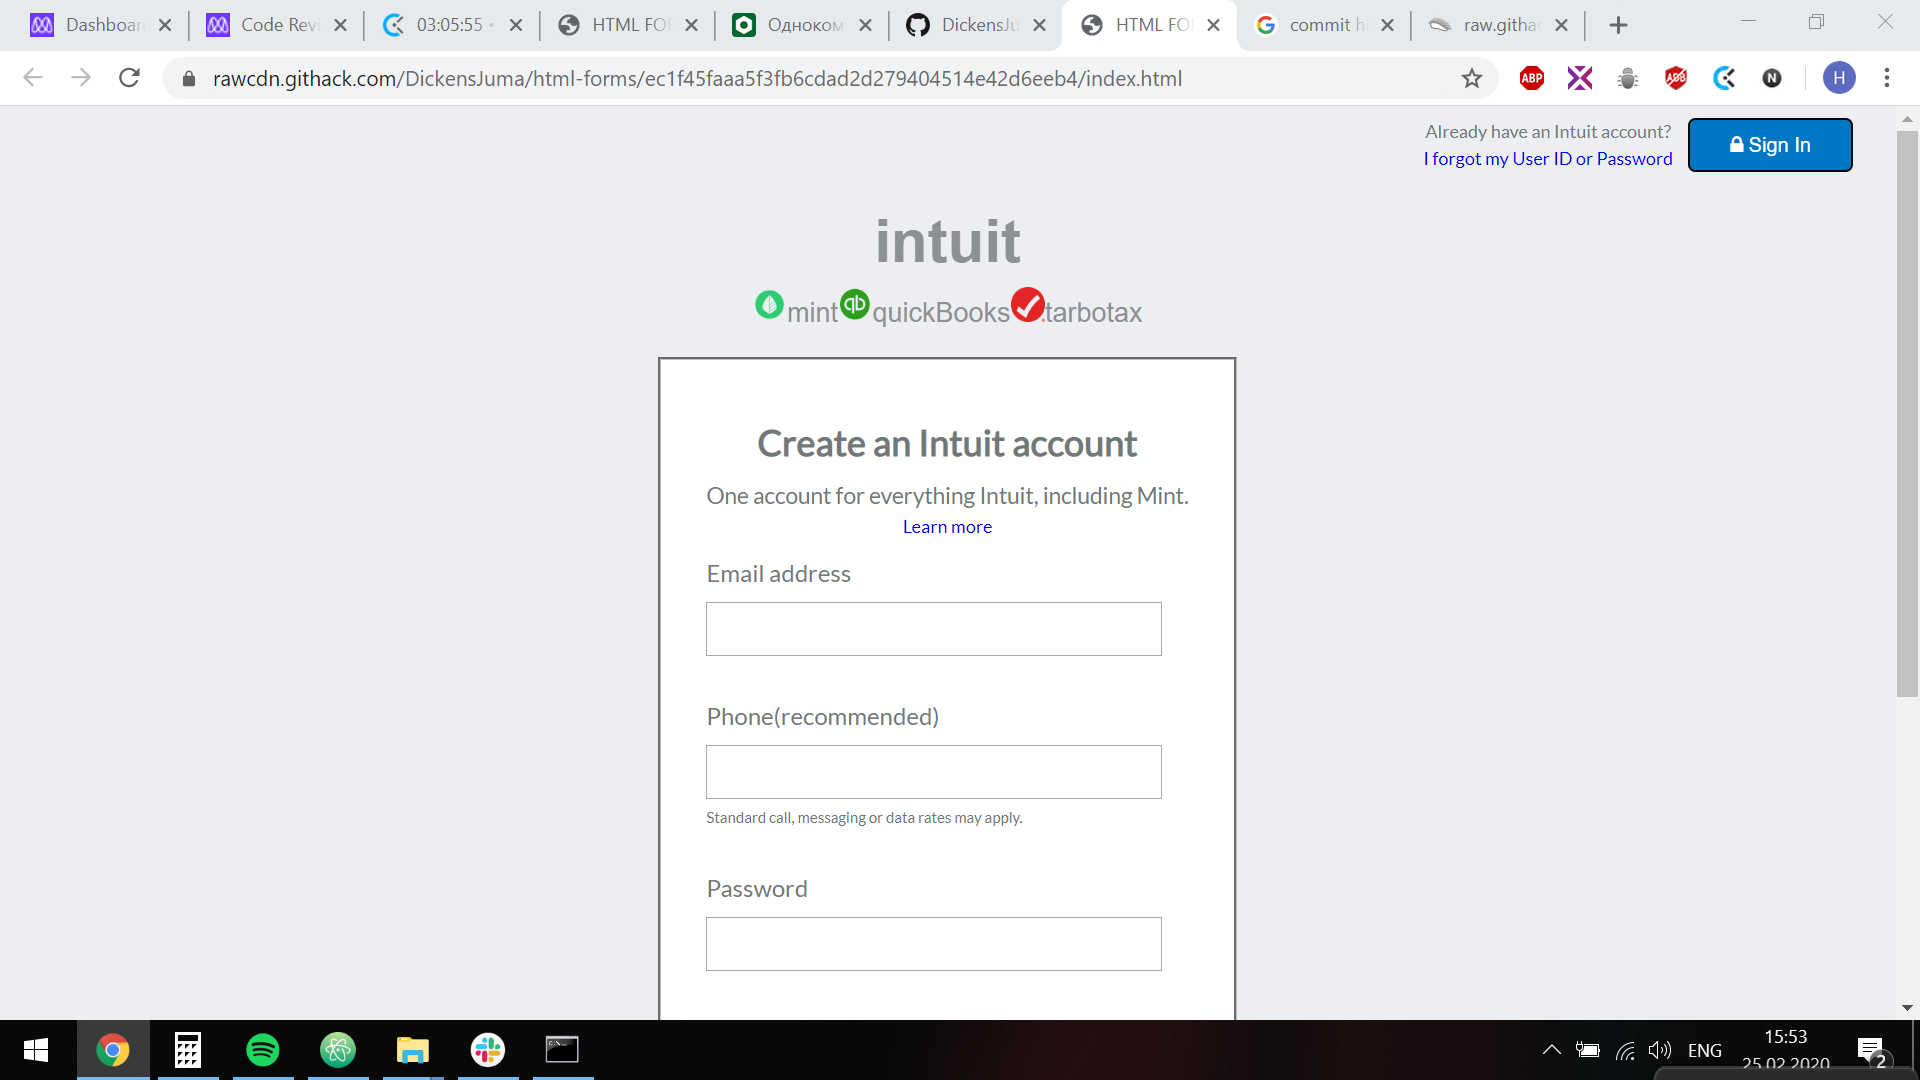
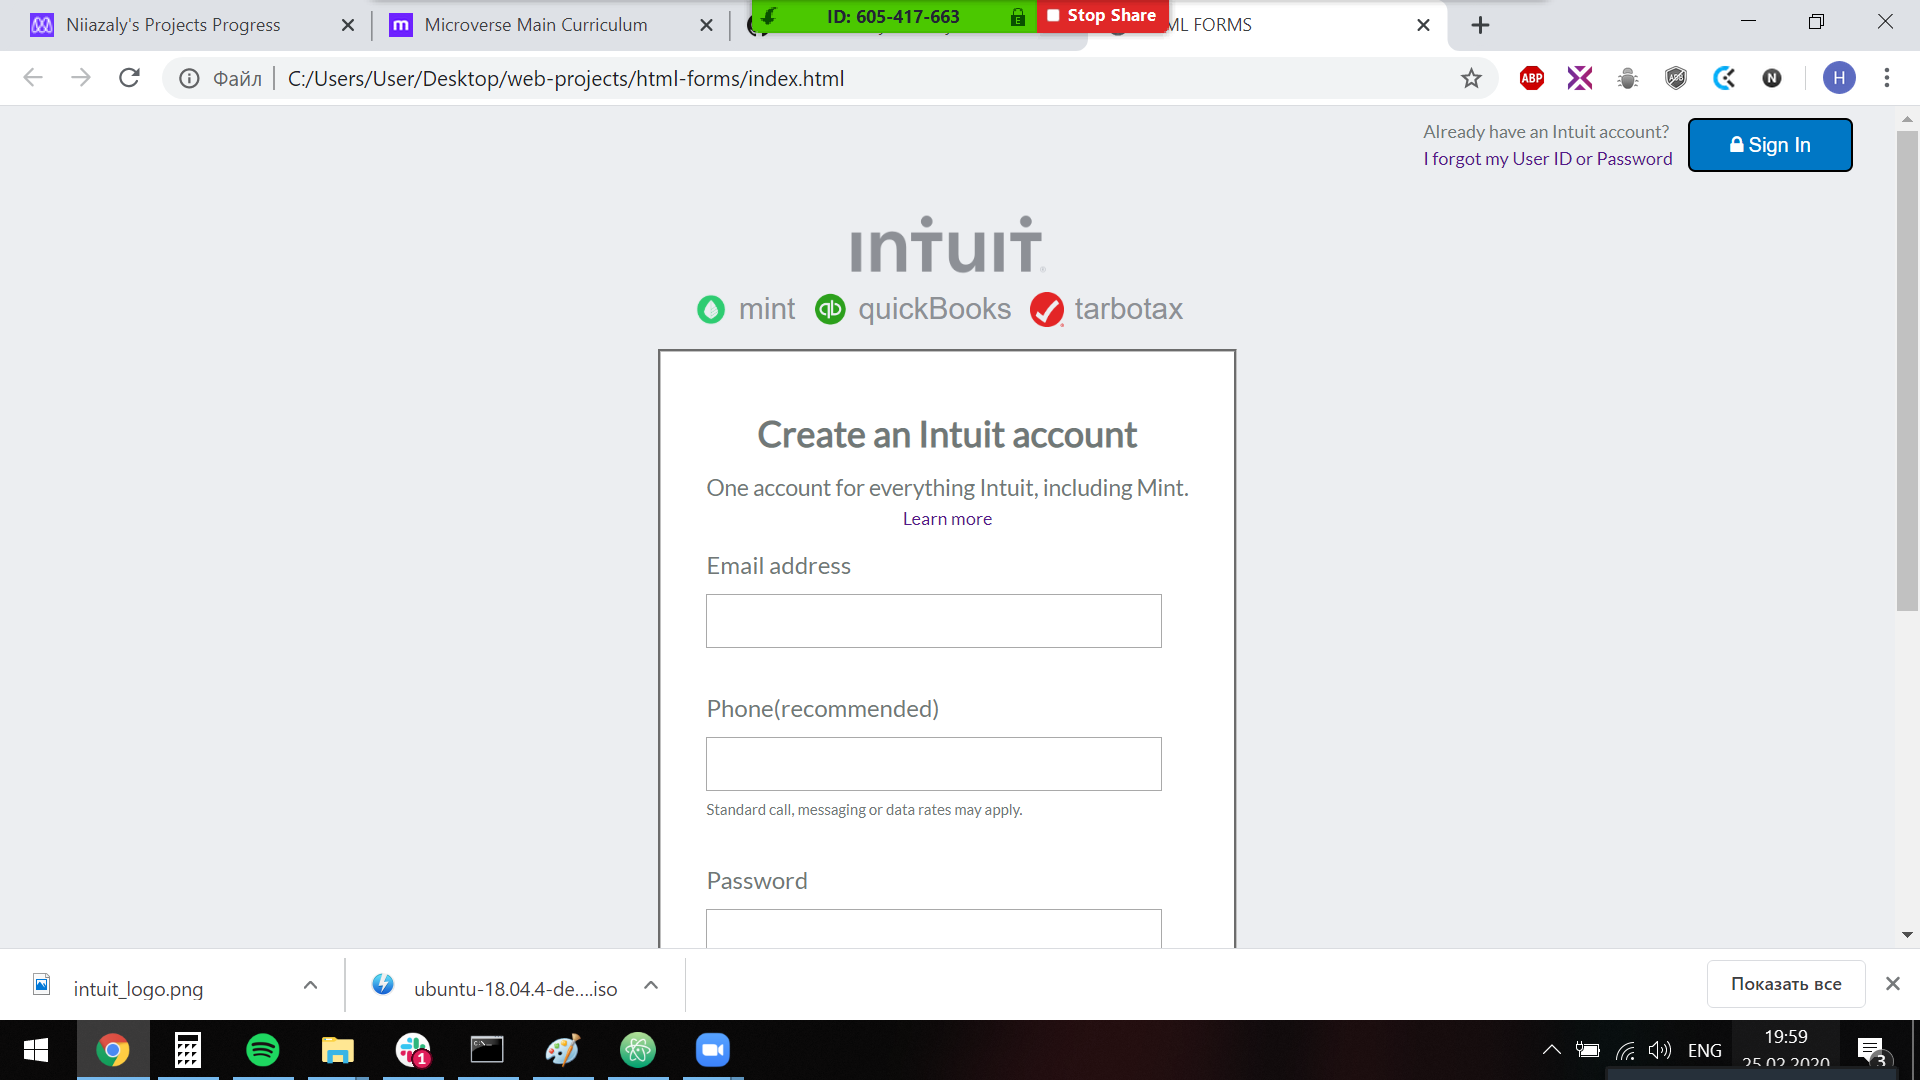
Revised README

diff --git a/index.html b/index.html
@@ -21,8 +21,7 @@
   </nav>
 
   <header>
-    <div class="forms-header">
-      <!-- <h1>intuit</h1> -->
+    <div class="forms-header">      
       <img src="./img/intuit_logo.png" alt="intuit logo" class="intuit-logo">
     </div>
     <div class="services">

diff --git a/README.md b/README.md
@@ -3,7 +3,7 @@
 
 > HTML forms
 
-![screenshot](/img/hmlformsscreenshot.png)
+![screenshot](img/hmlformsscreenshot.png)
 
 The page tries to clone the actual Mint.com sign up page.
 
@@ -14,7 +14,7 @@ The page tries to clone the actual Mint.com sign up page.
 
 ## Live Demo
 
-[Live Demo Link](https://rawcdn.githack.com/DickensJuma/html-forms/ec1f45faaa5f3fb6cdad2d279404514e42d6eeb4/index.html)
+[Live Demo Link](https://rawcdn.githack.com/DickensJuma/html-forms/8303033610411624a7fd34e28d3b71cb50d63a01/index.html)
 
 
 ## Authors
